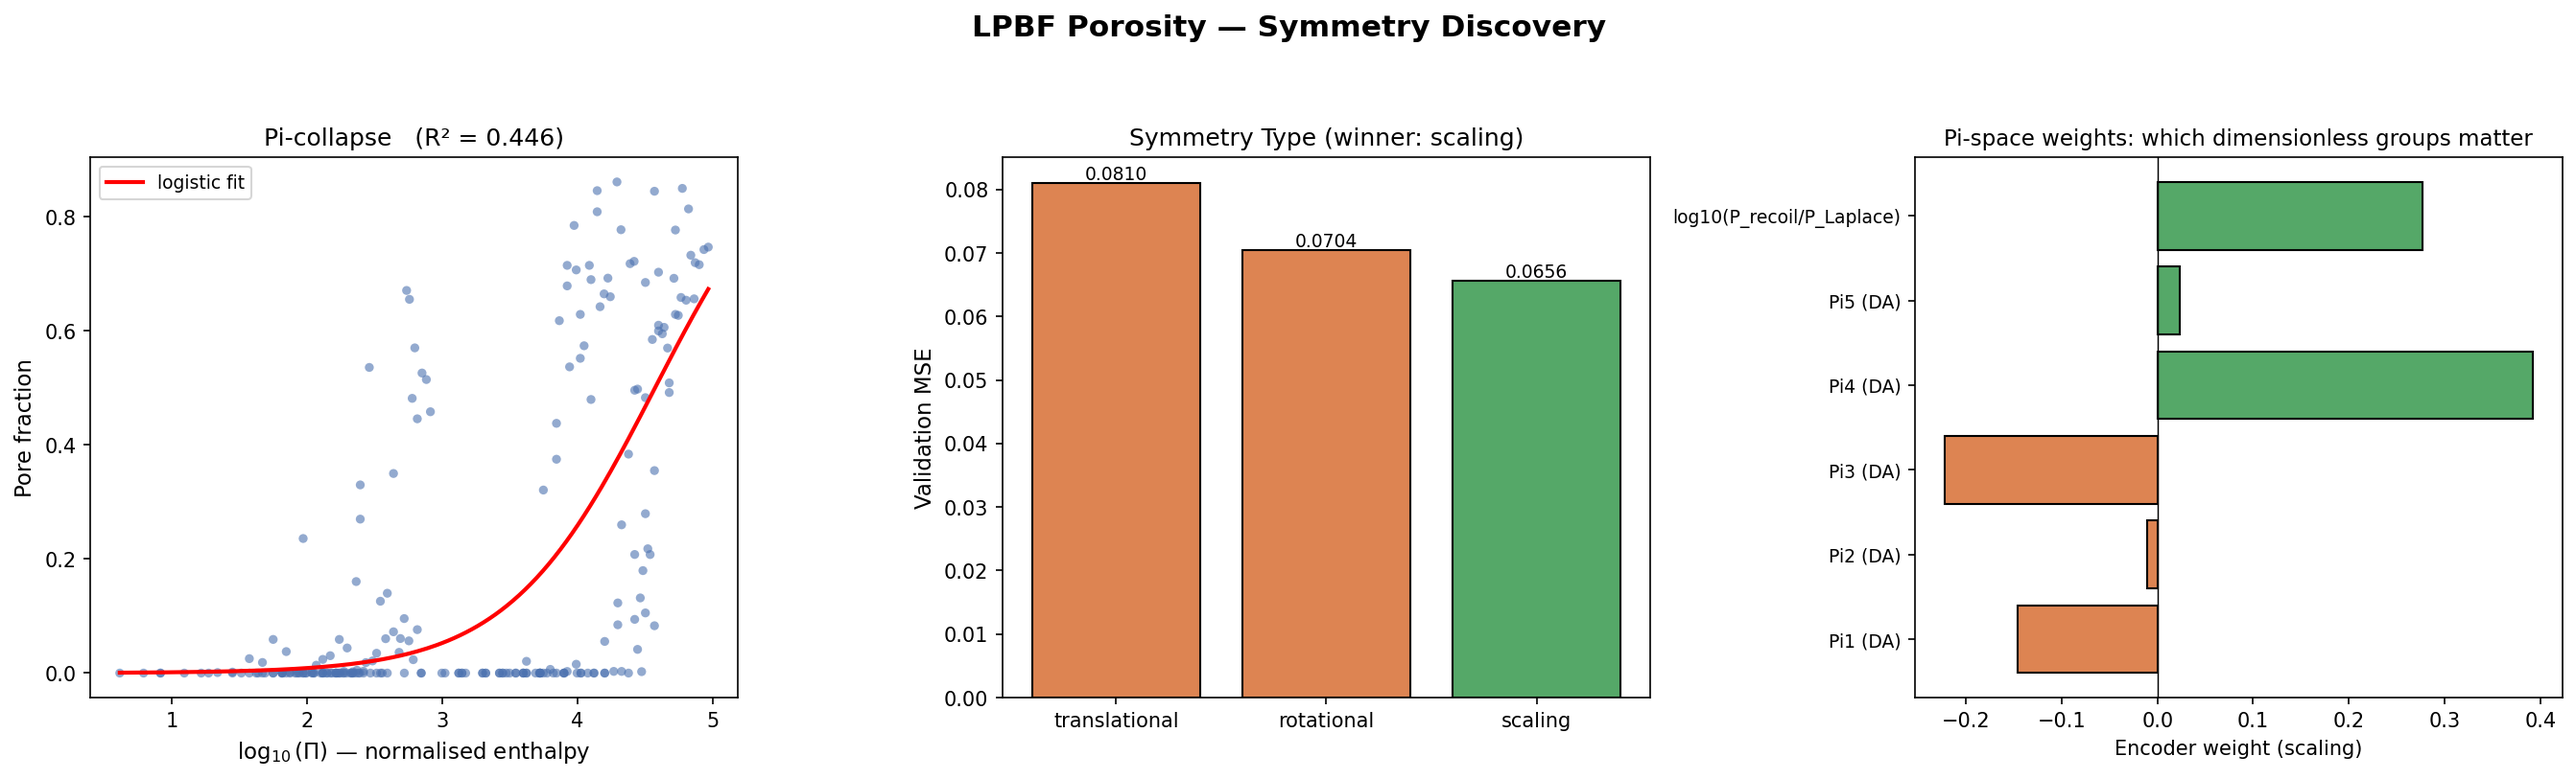
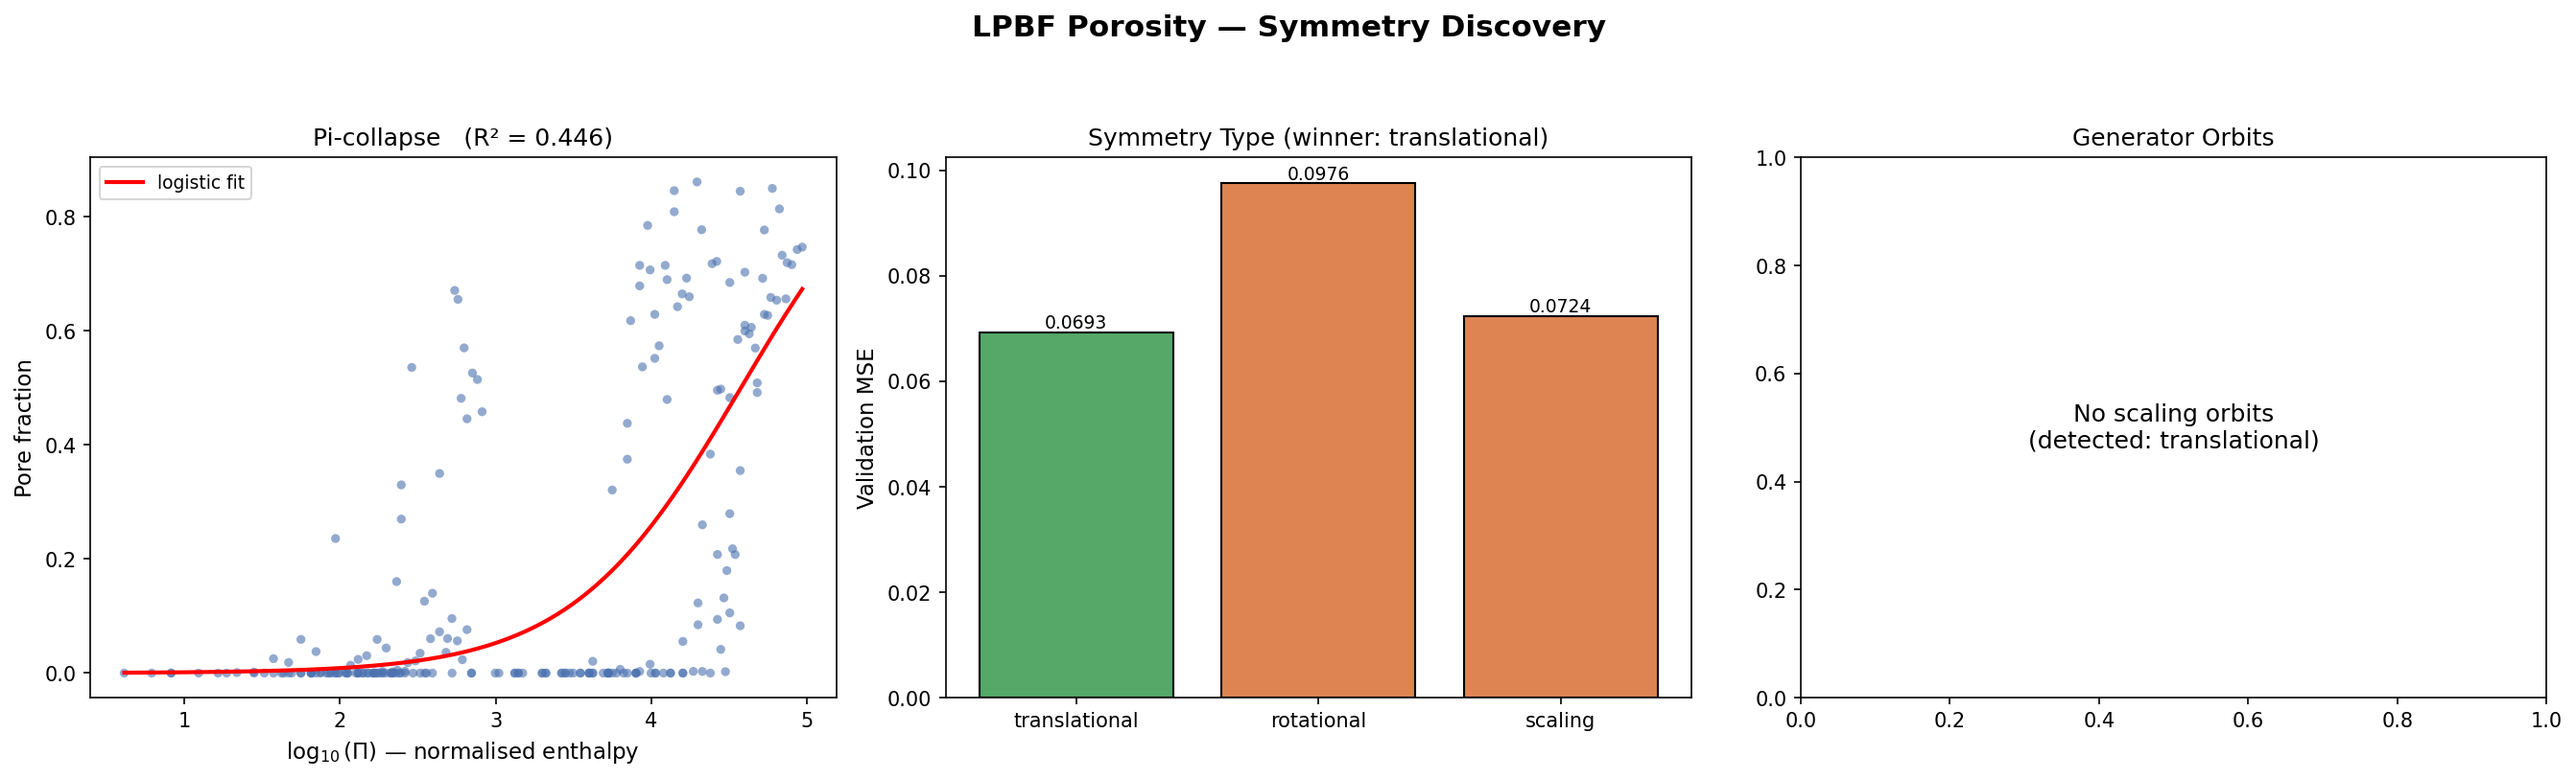
Keyhole + LPBF: split --pi-only into Pi-only Step 2 + raw-X Step 3
Previously --pi-only fed pre-log-scaled Pi features into the symmetry
encoders, which made the scaling encoder compute log of log-of-Pi —
ill-conditioned on values in [0, 1] — so rotational/translational won
by default.

Now --pi-only is a hybrid:

* Step 2 (latent-dimension discovery) consumes the dimensionless Pi
  groups only, with raw_input=True (no [X, X², log|X|] augmentation).
  This gives a clean "how many dimensionless coordinates govern the
  output?" answer.

* Step 3 (symmetry-type identification) always runs on raw normalised
  physical X.  Each candidate type uses its own SymmetryEncoder
  transform (X / X² / log|X|) acting on multiplicatively-meaningful
  quantities, so the scaling-symmetry test is well-posed.

Generator weights and the third visualisation panel therefore always
index physical VARIABLE_NAMES, regardless of --pi-only.  Both LPBF and
keyhole examples are updated.

https://claude.ai/code/session_01SsuVztD1UAnzNFmuzGDQd6

diff --git a/projects/20260912_Stage1_Prokash/Examples/lpbf_porosity_symmetry/discover_symmetry.py b/projects/20260912_Stage1_Prokash/Examples/lpbf_porosity_symmetry/discover_symmetry.py
@@ -417,43 +417,43 @@ def run_pipeline(X, y, Pi, PR, materials, args):
     sys.stdout.flush()
 
     pi_only = getattr(args, "pi_only", False)
-    if pi_only:
-        # Feed the dimensionless groups directly to the encoder; ignore raw X.
-        # pi_features is already log10(Pi) min-max scaled to [0, 1].
-        norm = normalize_data(pi_features, y, method="minmax")
-        norm["log_prescaled"] = False
-        norm["pi_only"] = True
-        feature_names = pi_feature_names
-        print(f"  --pi-only: using {pi_features.shape[1]} dimensionless features "
-              f"as encoder input (raw physical variables ignored)")
-    elif getattr(args, "log_normalize", False):
+
+    # Always normalize raw physical X — Step 3 (symmetry-type detection) runs
+    # on physical variables so its translational/rotational/scaling encoders
+    # (X, X², log|X|) act on multiplicatively-meaningful quantities.
+    if getattr(args, "log_normalize", False):
         # Geometric-mean centring so the scaling encoder (which applies
         # log(X.clamp(0.1)) internally) sees centred log-physical coordinates
-        # instead of min-max-clipped affine ones.  After dividing each column
-        # by its geometric mean the column is positive and centred around 1,
-        # so log(X_prescaled) = ln(10)·(log10(X_raw) − mean log10(X)).  A
-        # scaling action in this space is a genuine physical scaling and the
-        # learned weights map 1:1 onto power-law exponents of the raw variables.
+        # instead of min-max-clipped affine ones.
         log10_X = np.log10(np.maximum(X, 1e-30))
-        gmean_exp = log10_X.mean(axis=0)                    # mean in log10 space
-        X_prescaled = 10 ** (log10_X - gmean_exp)           # = X / geomean(X)
-        norm = normalize_data(X_prescaled, y, method="minmax")
-        norm["log_prescaled"] = True
-        norm["gmean_exp"] = gmean_exp
-        norm["pi_only"] = False
-        feature_names = VARIABLE_NAMES
+        gmean_exp = log10_X.mean(axis=0)
+        X_prescaled = 10 ** (log10_X - gmean_exp)
+        norm_raw = normalize_data(X_prescaled, y, method="minmax")
+        norm_raw["log_prescaled"] = True
+        norm_raw["gmean_exp"] = gmean_exp
         print(f"  Log-prenormalisation enabled (geometric-mean centring)")
         print(f"  X_prescaled range: [{X_prescaled.min():.3g}, {X_prescaled.max():.3g}]")
     else:
-        norm = normalize_data(X, y, method="minmax")
-        norm["log_prescaled"] = False
-        norm["pi_only"] = False
-        feature_names = VARIABLE_NAMES
+        norm_raw = normalize_data(X, y, method="minmax")
+        norm_raw["log_prescaled"] = False
+    norm_raw["pi_only"] = pi_only
+    X_norm_raw = norm_raw["X_normalized"]
+    y_norm     = norm_raw["y_normalized"]
 
-    X_norm, y_norm = norm["X_normalized"], norm["y_normalized"]
-    results["normalization"] = norm
-    results["feature_names"] = feature_names
-    print(f"  X range: [{X_norm.min():.3f}, {X_norm.max():.3f}]")
+    # In pi-only mode, also normalize pi_features for Step 2.
+    if pi_only:
+        norm_pi = normalize_data(pi_features, y, method="minmax")
+        X_norm_step2 = norm_pi["X_normalized"]
+        print(f"  --pi-only: Step 2 input = {pi_features.shape[1]} dimensionless features; "
+              f"Step 3 input = raw physical X ({X_norm_raw.shape[1]} variables)")
+    else:
+        X_norm_step2 = X_norm_raw
+
+    results["normalization"] = norm_raw
+    results["feature_names"] = VARIABLE_NAMES   # Step 3 always on physical X
+    print(f"  X_raw range: [{X_norm_raw.min():.3f}, {X_norm_raw.max():.3f}]")
+    if pi_only:
+        print(f"  X_pi  range: [{X_norm_step2.min():.3f}, {X_norm_step2.max():.3f}]")
     print()
 
     # --- Discover latent dimension ---
@@ -470,12 +470,11 @@ def run_pipeline(X, y, Pi, PR, materials, args):
     # scaling — log(0) and negative exponents would blow up to NaN.
     enc_kwargs = {"encoder_hidden_dims": args.encoder_hidden}
     if pi_only:
-        # X_norm already IS the Pi features — don't append them twice, and
-        # skip the [X, X², log|X|] augmentation so the encoder sees just
-        # the dimensionless groups directly.
+        # Step 2 X is the Pi features; skip [X, X², log|X|] augmentation so
+        # the encoder consumes the dimensionless groups directly.
         enc_kwargs["raw_input"] = True
-        print(f"  --pi-only: encoder input = {X_norm.shape[1]} dimensionless features "
-              f"(no [X, X², log|X|] augmentation)")
+        print(f"  --pi-only: Step 2 encoder input = {X_norm_step2.shape[1]} "
+              f"dimensionless features (no [X, X², log|X|] augmentation)")
     elif not args.no_pi_input:
         enc_kwargs["pi_features"] = pi_features
         print(f"  Injecting {pi_features.shape[1]} reduced Pi candidate(s) "
@@ -483,7 +482,7 @@ def run_pipeline(X, y, Pi, PR, materials, args):
     print(f"  Multilayer encoder hidden dims: {args.encoder_hidden}")
 
     res_latent = discover_latent_dimension(
-        X_norm, y_norm, max_latent=4,
+        X_norm_step2, y_norm, max_latent=4,
         n_epochs=args.latent_epochs, n_restarts=args.n_restarts, seed=args.seed,
         **enc_kwargs,
     )
@@ -500,8 +499,13 @@ def run_pipeline(X, y, Pi, PR, materials, args):
     print("Step 3: Identifying symmetry type")
     print("=" * 60)
     sys.stdout.flush()
+    if pi_only:
+        print(f"  Running Step 3 on raw physical X ({X_norm_raw.shape[1]} variables) "
+              f"so the translational/rotational/scaling encoders see")
+        print(f"  multiplicatively-meaningful quantities (avoids the log-of-log "
+              f"degeneracy of feeding pre-log-scaled Pi groups).")
     res_sym = identify_symmetry(
-        X_norm, y_norm, n_latent=n_latent, decoder=res_latent["best_decoder"],
+        X_norm_raw, y_norm, n_latent=n_latent, decoder=res_latent["best_decoder"],
         n_epochs=args.sym_epochs, n_restarts=args.n_restarts, seed=args.seed,
     )
     results["symmetry"] = res_sym
@@ -530,13 +534,10 @@ def run_pipeline(X, y, Pi, PR, materials, args):
     print()
 
     # --- Report the winning encoder's weight vector ---
-    # The scaling encoder computes z = W · log(X.clamp(min=0.1)) with X the
-    # normalised (not augmented) input, so W has shape (n_latent, 7) and its
-    # columns correspond 1:1 to VARIABLE_NAMES.  Printing both the raw weights
-    # and their L2-normalised version lets the reader compare to the known
-    # Pi exponents [+1, +1, +1, +1, −2, +1, −2].
+    # Step 3 always runs on physical X, so the encoder's columns map 1:1 to
+    # VARIABLE_NAMES regardless of --pi-only.  For scaling, z = W · log|X|.
     W = winner_encoder.weight_matrix  # (n_latent, n_inputs)
-    names_for_W = results["feature_names"]
+    names_for_W = VARIABLE_NAMES
     print("=" * 60)
     print("  Winning encoder weight vector(s)")
     print("=" * 60)
@@ -545,52 +546,38 @@ def run_pipeline(X, y, Pi, PR, materials, args):
         row = W[i]
         denom = np.linalg.norm(row) + 1e-12
         row_n = row / denom
-        print(f"  Row {i+1} (scaling):")
+        print(f"  Row {i+1} ({winner_type}):")
         header = "    " + "  ".join(f"{n:>{name_w}s}" for n in names_for_W)
         raw    = "    " + "  ".join(f"{v:+{name_w}.4f}" for v in row)
         normed = "    " + "  ".join(f"{v:+{name_w}.4f}" for v in row_n)
         print(header)
         print(f"  raw :{raw}")
         print(f"  L2-n:{normed}")
-        if not pi_only:
-            # Compare direction against known Pi exponents (only meaningful in
-            # the physical-variable basis; in pi-only mode the weights index
-            # Pi groups and comparison to KNOWN_PI_EXPONENTS is not defined).
-            ref = KNOWN_PI_EXPONENTS
-            ref_n = ref / np.linalg.norm(ref)
-            cos = float(np.dot(row_n, ref_n))
-            print(f"  cos<row, known-Pi-exponents> = {cos:+.4f}  "
-                  f"(±1 means perfect alignment)")
-        else:
-            # Highlight which Pi group the learned invariant weights most heavily
-            dom = int(np.argmax(np.abs(row)))
-            print(f"  Dominant Pi feature: {names_for_W[dom]}  (|w|={abs(row[dom]):.4f})")
+        # Compare direction against known Pi exponents.
+        ref = KNOWN_PI_EXPONENTS
+        ref_n = ref / np.linalg.norm(ref)
+        cos = float(np.dot(row_n, ref_n))
+        print(f"  cos<row, known-Pi-exponents> = {cos:+.4f}  "
+              f"(±1 means perfect alignment)")
     print()
 
     # --- Interpret generators physically ---
     print("=" * 60)
     print("Step 5: Physical interpretation of generators")
     print("=" * 60)
-    interp_names = names_for_W
     if winner_type == "scaling" and generators:
-        if pi_only:
-            print(f"  Each generator is a direction in the dimensionless-group space")
-            print(f"  along which the learned invariant is preserved.  A non-zero")
-            print(f"  weight means that Pi group is relevant to the output.\n")
-        else:
-            print(f"  Each generator is a direction in log-space along which Pi is preserved.")
-            print(f"  Physically: simultaneous rescaling of variables that keeps the")
-            print(f"  normalised enthalpy Pi (and therefore the pore fraction) invariant.\n")
+        print(f"  Each generator is a direction in log-space along which Pi is preserved.")
+        print(f"  Physically: simultaneous rescaling of variables that keeps the")
+        print(f"  normalised enthalpy Pi (and therefore the pore fraction) invariant.\n")
         for i, g in enumerate(generators):
             if g.ndim == 1:
                 parts = []
-                for j, name in enumerate(interp_names):
+                for j, name in enumerate(VARIABLE_NAMES):
                     if abs(g[j]) > 0.05:
                         parts.append(f"{name} x exp({g[j]:+.3f}*eps)")
                 print(f"  Generator {i+1}:")
                 print(f"    {', '.join(parts)}")
-                if not pi_only:
-                    _interpret_generator(g, i + 1)
+                _interpret_generator(g, i + 1)
                 print()
     elif winner_type == "rotational" and generators:
         for i, g in enumerate(generators):
@@ -599,7 +586,7 @@ def run_pipeline(X, y, Pi, PR, materials, args):
     else:
         for i, g in enumerate(generators):
             if g.ndim == 1:
-                parts = [f"{name}:{g[j]:+.3f}" for j, name in enumerate(interp_names) if abs(g[j]) > 0.05]
+                parts = [f"{name}:{g[j]:+.3f}" for j, name in enumerate(VARIABLE_NAMES) if abs(g[j]) > 0.05]
                 print(f"  Generator {i+1}: [{', '.join(parts)}]")
     print()
 
@@ -783,21 +770,7 @@ def plot_results(X, y, results, output_dir):
     # lines directly in log10(X_raw), rooted at data points.  That is the
     # honest geometric picture of the discovered scaling generator.
     ax = axes[2]
-    # In --pi-only mode generators live in Pi-group space, not physical
-    # (P, V, …) space, so the log(P)–log(V) orbit panel doesn't apply.
-    # Show the encoder's Pi-weight bar chart instead.
-    if results["normalization"].get("pi_only", False) and generators and winner_type == "scaling":
-        names = results["feature_names"]
-        W = results["winner_encoder"].weight_matrix
-        row = W[0] if W.ndim == 2 else W
-        colors = ["#55A868" if v > 0 else "#DD8452" for v in row]
-        ax.barh(range(len(names)), row, color=colors, edgecolor="black", lw=1)
-        ax.set_yticks(range(len(names)))
-        ax.set_yticklabels(names, fontsize=9)
-        ax.axvline(0, color="black", lw=0.7)
-        ax.set_xlabel("Encoder weight (scaling)", fontsize=10)
-        ax.set_title("Pi-space weights: which dimensionless groups matter", fontsize=11)
-    elif generators and winner_type == "scaling":
+    if generators and winner_type == "scaling":
         g = generators[0]
         importance = np.abs(g)
         top2 = np.argsort(importance)[-2:][::-1]
@@ -1074,14 +1047,12 @@ def main():
     print(f"  Symmetry: {sym_type}")
     print(f"  Generators: {len(results['generators'])}")
     if sym_type == "scaling":
-        if args.pi_only:
-            print(f"  --pi-only: generators live in dimensionless-group space.")
-            print(f"  Each direction is a rescaling of Pi groups that leaves the")
-            print(f"  learned pore-fraction invariant unchanged.")
-        else:
-            print(f"  These generators show how P, V, A, rho, k, Lv, dT, γ, Tb can be")
-            print(f"  simultaneously rescaled while preserving the normalised enthalpy Pi")
-            print(f"  — and therefore the LPBF pore fraction.")
+        print(f"  These generators show how P, V, A, rho, k, Lv, dT, γ, Tb can be")
+        print(f"  simultaneously rescaled while preserving the normalised enthalpy Pi")
+        print(f"  — and therefore the LPBF pore fraction.")
+    if args.pi_only:
+        print(f"  Step 2 (latent dim) used only the dimensionless Pi groups.")
+        print(f"  Step 3 (symmetry type) used raw physical X for valid log/X²/X transforms.")
     print()
 
 

diff --git a/projects/20260912_Stage1_Prokash/Examples/keyhole_symmetry/discover_symmetry.py b/projects/20260912_Stage1_Prokash/Examples/keyhole_symmetry/discover_symmetry.py
@@ -298,20 +298,29 @@ def run_pipeline(X, y, Ke, args):
     print("=" * 60)
     sys.stdout.flush()
     pi_only = getattr(args, "pi_only", False)
+
+    # Always normalize raw physical X — Step 3 (symmetry-type detection) runs
+    # on physical variables so its translational/rotational/scaling encoders
+    # (X, X², log|X|) act on multiplicatively-meaningful quantities.
+    norm_raw = normalize_data(X, y, method="minmax")
+    norm_raw["pi_only"] = pi_only
+    X_norm_raw = norm_raw["X_normalized"]
+    y_norm     = norm_raw["y_normalized"]
+
+    # In pi-only mode, also normalize pi_features for Step 2.
     if pi_only:
-        # Feed the dimensionless groups directly; ignore raw X.
-        norm = normalize_data(pi_features, y, method="minmax")
-        feature_names = pi_feature_names
-        print(f"  --pi-only: using {pi_features.shape[1]} dimensionless features "
-              f"as encoder input (raw physical variables ignored)")
+        norm_pi = normalize_data(pi_features, y, method="minmax")
+        X_norm_step2 = norm_pi["X_normalized"]
+        print(f"  --pi-only: Step 2 input = {pi_features.shape[1]} dimensionless features; "
+              f"Step 3 input = raw physical X ({X_norm_raw.shape[1]} variables)")
     else:
-        norm = normalize_data(X, y, method="minmax")
-        feature_names = VARIABLE_NAMES
-    norm["pi_only"] = pi_only
-    X_norm, y_norm = norm["X_normalized"], norm["y_normalized"]
-    results["normalization"] = norm
-    results["feature_names"] = feature_names
-    print(f"  X range: [{X_norm.min():.3f}, {X_norm.max():.3f}]")
+        X_norm_step2 = X_norm_raw
+
+    results["normalization"] = norm_raw
+    results["feature_names"] = VARIABLE_NAMES   # Step 3 always on physical X
+    print(f"  X_raw range: [{X_norm_raw.min():.3f}, {X_norm_raw.max():.3f}]")
+    if pi_only:
+        print(f"  X_pi  range: [{X_norm_step2.min():.3f}, {X_norm_step2.max():.3f}]")
     print()
 
     # --- Discover latent dimension ---
@@ -322,12 +331,11 @@ def run_pipeline(X, y, Ke, args):
     # Wire in the reduced candidates and a multilayer encoder by default.
     enc_kwargs = {"encoder_hidden_dims": args.encoder_hidden}
     if pi_only:
-        # X_norm IS pi_features now — don't re-append, and skip the
-        # [X, X², log|X|] augmentation so the encoder consumes the
-        # dimensionless groups directly.
+        # Step 2 X is the Pi features; skip [X, X², log|X|] augmentation so
+        # the encoder consumes the dimensionless groups directly.
         enc_kwargs["raw_input"] = True
-        print(f"  --pi-only: encoder input = {X_norm.shape[1]} dimensionless features "
-              f"(no [X, X², log|X|] augmentation)")
+        print(f"  --pi-only: Step 2 encoder input = {X_norm_step2.shape[1]} "
+              f"dimensionless features (no [X, X², log|X|] augmentation)")
     elif not args.no_pi_input:
         # Reduced candidates computed from physical (always-positive) X; the
         # pi_features path injects them directly, side-stepping the library's
@@ -340,7 +348,7 @@ def run_pipeline(X, y, Ke, args):
               f"{'ENABLED (' + str(pi_features.shape[1]) + ' Pi features)' if not args.no_pi_input else 'disabled'}")
 
     res_latent = discover_latent_dimension(
-        X_norm, y_norm, max_latent=4,
+        X_norm_step2, y_norm, max_latent=4,
         n_epochs=args.latent_epochs, n_restarts=args.n_restarts, seed=args.seed,
         **enc_kwargs,
     )
@@ -357,8 +365,13 @@ def run_pipeline(X, y, Ke, args):
     print("Step 3: Identifying symmetry type")
     print("=" * 60)
     sys.stdout.flush()
+    if pi_only:
+        print(f"  Running Step 3 on raw physical X ({X_norm_raw.shape[1]} variables) "
+              f"so the translational/rotational/scaling encoders see")
+        print(f"  multiplicatively-meaningful quantities (avoids the log-of-log "
+              f"degeneracy of feeding pre-log-scaled Pi groups).")
     res_sym = identify_symmetry(
-        X_norm, y_norm, n_latent=n_latent, decoder=res_latent["best_decoder"],
+        X_norm_raw, y_norm, n_latent=n_latent, decoder=res_latent["best_decoder"],
         n_epochs=args.sym_epochs, n_restarts=args.n_restarts, seed=args.seed,
     )
     results["symmetry"] = res_sym
@@ -390,24 +403,19 @@ def run_pipeline(X, y, Ke, args):
     print("=" * 60)
     print("Step 5: Physical interpretation of generators")
     print("=" * 60)
-    interp_names = results["feature_names"]
     if winner_type == "scaling" and generators:
-        if pi_only:
-            print(f"  Each generator is a direction in dimensionless-group space")
-            print(f"  along which the learned invariant is preserved.\n")
-        else:
-            print(f"  Each generator is a direction in log-space along which Ke is preserved.")
-            print(f"  Physically: simultaneous rescaling of variables that keeps the physics invariant.\n")
+        print(f"  Each generator is a direction in log-space along which Ke is preserved.")
+        print(f"  Physically: simultaneous rescaling of variables that keeps the physics invariant.\n")
         for i, g in enumerate(generators):
             if g.ndim == 1:
                 parts = []
-                for j, name in enumerate(interp_names):
+                for j, name in enumerate(VARIABLE_NAMES):
                     if abs(g[j]) > 0.05:
                         parts.append(f"{name} x exp({g[j]:+.3f}*eps)")
                 print(f"  Generator {i+1}:")
                 print(f"    {', '.join(parts)}")
-                if not pi_only:
-                    _interpret_generator(g, i + 1)
+                # Physical meaning
+                _interpret_generator(g, i + 1)
                 print()
     elif winner_type == "rotational" and generators:
         for i, g in enumerate(generators):
@@ -416,7 +424,7 @@ def run_pipeline(X, y, Ke, args):
     else:
         for i, g in enumerate(generators):
             if g.ndim == 1:
-                parts = [f"{name}:{g[j]:+.3f}" for j, name in enumerate(interp_names) if abs(g[j]) > 0.05]
+                parts = [f"{name}:{g[j]:+.3f}" for j, name in enumerate(VARIABLE_NAMES) if abs(g[j]) > 0.05]
                 print(f"  Generator {i+1}: [{', '.join(parts)}]")
     print()
 
@@ -562,21 +570,7 @@ def plot_results(X, y, results, output_dir):
 
     # --- Panel 3: Generator orbits in log-space ---
     ax = axes[2]
-    # In --pi-only mode generators live in Pi-group space, not physical
-    # space, so the log(X)–log(Y) orbit panel doesn't apply.  Show the
-    # encoder's Pi-weight bar chart instead.
-    if results["normalization"].get("pi_only", False) and generators and winner_type == "scaling":
-        names = results["feature_names"]
-        W = results["winner_encoder"].weight_matrix
-        row = W[0] if W.ndim == 2 else W
-        colors = ["#55A868" if v > 0 else "#DD8452" for v in row]
-        ax.barh(range(len(names)), row, color=colors, edgecolor="black", lw=1)
-        ax.set_yticks(range(len(names)))
-        ax.set_yticklabels(names, fontsize=9)
-        ax.axvline(0, color="black", lw=0.7)
-        ax.set_xlabel("Encoder weight (scaling)", fontsize=10)
-        ax.set_title("Pi-space weights: which dimensionless groups matter", fontsize=11)
-    elif generators and winner_type == "scaling":
+    if generators and winner_type == "scaling":
         # Pick two most important variables from the first generator
         g = generators[0]
         importance = np.abs(g)
